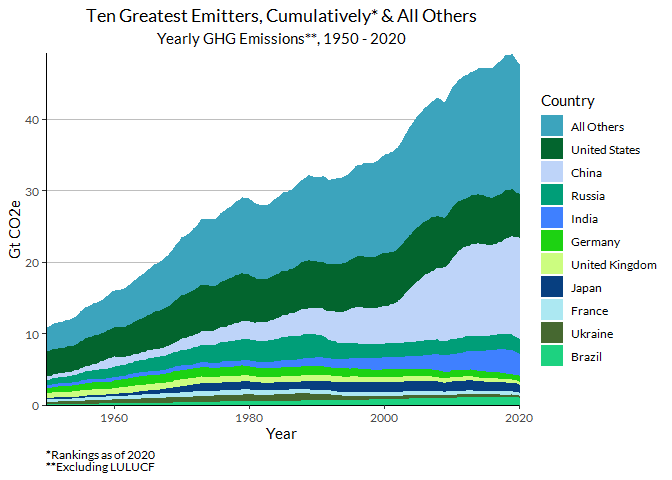
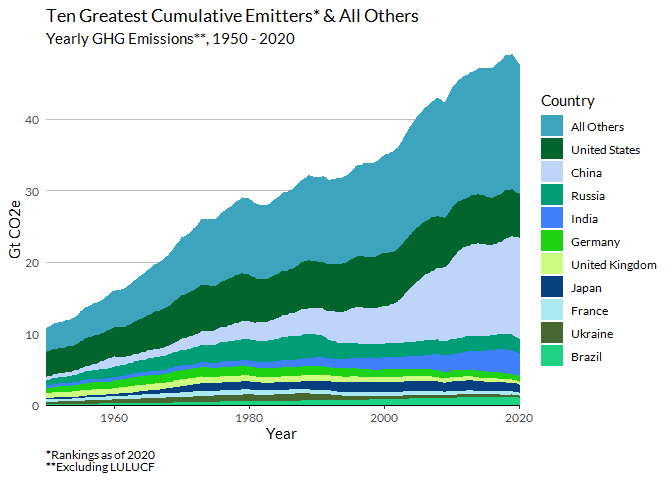
.

Changed region(s): [[0.0625, 0.0, 0.7188, 0.0938]]

diff --git a/Missed-Benchmarks.md b/Missed-Benchmarks.md
@@ -61,25 +61,31 @@ co2_1850_w_world <- dplyr::union(co2_1850, world)
 ```
 
 ``` r
-# explore effects of LULUCF on global total and whether to include
-# so the unfccc ndcs do not include LULUCF? which ones? all of them?
+# explore effects of LULUCF on global total
 
 global_totals_vs_lulucf <- world %>%
   pivot_longer(total_excl_LULUCF:total_incl_LULUCF:LULUCF, names_to = "category", values_to = "GtCO2e") 
 
+# graphing the global observations of total_incl_LULUCF, total_excl_LULUCF, and LULUCF over time
+
 global_totals_vs_lulucf <- global_totals_vs_lulucf %>%
-  ggplot(aes(year, GtCO2e, color = category), linewidth = 1) +
+  ggplot(aes(year, GtCO2e, color = category), linewidth = 1.2) +
   geom_line(aes(year, GtCO2e), linewidth = .9) + #aes(year, GtCO2e), linewidth = 1.5
   geom_hline(yintercept = 0, linewidth = .5) +
-  coord_cartesian(xlim = c(1970, 2021), expand = FALSE) +
+  coord_cartesian(xlim = c(1970, 2020.5), expand = FALSE) +
   scale_y_continuous(limits = c(-3, 50)) +
-  labs(x= "Year", color = element_blank()) +
+  labs(x= "Year", y = "Gt CO2e", color = element_blank(),
+       title = "Effect of LULUCF on Global Greenhouse Gas Emission Totals
+       ") +
   theme_classic() +
   theme(legend.position = c(0.15, 0.85), 
         legend.key.size = unit(0.2, "cm"), 
         legend.key.spacing.y = unit(.2, "cm"),
         legend.background = element_rect(fill = "white", color = 1), 
         legend.title = element_blank(), 
+        axis.ticks.y.left = element_blank(),
+        axis.line.y = element_blank(),
+        panel.grid.major.y = element_line(color = "grey"),
         text = element_text(family = "Lato"))
 
 
@@ -190,9 +196,9 @@ ls <- all_together_cumulative %>% filter(year == 2020)  %>% arrange(desc(cumsum_
 #DIY PALETTES
 mypalette <- c("#3CA4BD",  "#03652e", "#BED4F9FF", "#009E78", "#3F80FF", '#1dd212', "#ccfd80", "#073F80",  "#ACE8F2", "#466830",  "#1dd280", "#466870")
 
-mypalette2 <- c( "#3F80FF", "#073F80", "#A8D2F9FF", "#BED1F9FF","#009E78","#03652e", "#3CA4BD", "#ACE8F2", "#1dd280", "#466830",  "#466870", '#1dd212', "#ccfd10",  "#226670")
+mypalette2 <- c("#A8D2F9FF", "#BED1F9FF","#3F80FF", "#073F80", "#009E78","#03652e", "#3CA4BD", "#ACE8F2", "#1dd280", "#466830",  "#466870", '#1dd212', "#ccfd10",  "#226670")
 
-mypalette3 <- c( "#8fdc11", "#ccfd10", "#3F80FF", "#073F80", "#A8D2F9FF", "#BED1F9FF","#009E78", "#03652e", "#3CA4BD", "#ACE8F2", "#466830",  "#466870")
+mypalette3 <- c('#1dd212', "#8fdc11", "#A8D2F9FF", "#BED1F9FF","#3F80FF", "#073F80", "#009E78", "#03652e", "#3CA4BD", "#ACE8F2", "#466830",  "#466870")
 ```
 
 ``` r
@@ -210,14 +216,16 @@ plot_dfs_combined <- dfs_combined %>%
 #  scale_fill_paletteer_d("ggprism::floral2") + 
 #  scale_fill_paletteer_d("ggthemes::hc_fg") + 
   theme(text = element_text(family = "Lato"),
-        plot.title = element_text(hjust = 0.5),
-        plot.subtitle = element_text(hjust = 0.5),
+        axis.ticks.y.left = element_blank(),
+        axis.line.y = element_blank(),
+       # plot.title = element_text(hjust = 0.5),
+      #  plot.subtitle = element_text(hjust = 0.5),
         panel.grid.major.y = element_line(color = "grey"),
         plot.caption = element_text(hjust = 0)) +
   labs(x = "Year",
        y = "Gt CO2e",
        subtitle = "Yearly GHG Emissions**, 1950 - 2020",
-       title = "Ten Greatest Emitters, Cumulatively* & All Others",
+       title = "Ten Greatest Cumulative Emitters* & All Others",
        caption = "*Rankings as of 2020
 **Excluding LULUCF",
        fill = "Country")
@@ -251,7 +259,7 @@ df_agg_top_10 <- df_top_10_2015 %>%
   summarize(total_incl_LULUCF = sum(total_incl_LULUCF),
             total_excl_LULUCF = sum(total_excl_LULUCF),
             LULUCF = sum(LULUCF)) %>%
-  mutate(country = "Aggregated 10")
+  mutate(country = "Top Contributors")
 
 # appending "World"
 df_agg_top_10_n_world_2015 <- union(df_agg_top_10, world) 
@@ -261,12 +269,16 @@ df_agg_top_10_n_world_2015 <- union(df_agg_top_10, world)
 # plot before aggregating
 plot_world_over_time <- world %>%
   ggplot(aes(year, total_excl_LULUCF)) +
-  geom_line() +
-  theme_bw() +
+  geom_line(color = "#3F80FF", linewidth = 1.2) +
+  theme_classic() +
   coord_cartesian(xlim = c(1850, 2021), ylim = c(0,50), expand = FALSE) +
   theme(text = element_text(family = "Lato"),
-                plot.title = element_text(hjust = 0.5)) +
-  labs(x = "Year", y = "Gt CO2e", title = "Global Emissions Over Time")
+        axis.ticks.y.left = element_blank(),
+      #  plot.title = element_text(hjust = 0.5),
+        panel.grid.major.y = element_line(color = "grey"),
+        axis.line.y = element_blank(),
+        plot.caption = element_text(face = "italic")) +
+  labs(x = "Year", y = "Gt CO2e", title = "Global Greenhouse Gas Emissions\n")
 print(plot_world_over_time)
 ```
 
@@ -504,7 +516,7 @@ bau_agg10_df <- data.frame(year = c(2016, 2017, 2018, 2019, 2020,
                                     2021, 2022, 2023, 2024, 2025, 
                                     2026, 2027, 2028, 2029, 2030),
                            total_excl_LULUCF = bau_agg10_predict,
-                           country = "Aggregated 10",
+                           country = "Top Contributors",
                            total_incl_LULUCF = NA, 
                            LULUCF = NA)
   
@@ -515,7 +527,7 @@ agg10_2015_total <- df_agg_top_10 %>% filter(year == 2015)
 
 bau_df_2 <- rbind(bau_df, world_2015_total, agg10_2015_total)
 
-bau_df_2$country <- with(bau_df_2, factor(country, levels = c("World", "Aggregated 10"), labels = c("World_Pred", "Aggregated 10_Pred")))
+bau_df_2$country <- with(bau_df_2, factor(country, levels = c("World", "Top Contributors"), labels = c("World_Pred", "Top Contributors_Pred")))
 ```
 
 ``` r
@@ -561,7 +573,7 @@ pred_df <- data.frame(year = c(2020, 2021, 2022, 2023, 2024, 2025,
 pred_10_df <- data.frame(year = c(2020, 2021, 2022, 2023, 2024, 2025, 
                                   2026, 2027, 2028, 2029, 2030),
                          total_excl_LULUCF = pred_agg10,
-                         country = "Aggregated 10", # i need to be able to append this 
+                         country = "Top Contributors", # i need to be able to append this 
                          total_incl_LULUCF = NA, # to the bottom of df_agg_top_10_n_world_1015
                          LULUCF = NA)
 
@@ -572,7 +584,7 @@ df_agg10_world_2015_2030 <- union(df_agg_top_10_n_world_2015, pred_df)
 df_agg10_world_2020_2030 <- df_agg10_world_2015_2030 %>%
   filter(year %in% (2020:2030))
 
-df_agg10_world_2020_2030$country <- with(df_agg10_world_2020_2030, factor(country, levels = c("World", "Aggregated 10"), labels = c("World_Pred", "Aggregated 10_Pred")))
+df_agg10_world_2020_2030$country <- with(df_agg10_world_2020_2030, factor(country, levels = c("World", "Top Contributors"), labels = c("World_Pred", "Top Contributors_Pred")))
 ```
 
 ``` r
@@ -584,13 +596,13 @@ y_start_agg10 <- ndc_line %>%
 y_start_agg10 <- y_start_agg10$total_excl_LULUCF
 
 bau_yend_agg10 <- bau_df_2 %>%
-  filter(year == 2030 & country == "Aggregated 10_Pred") %>%
+  filter(year == 2030 & country == "Top Contributors_Pred") %>%
   select(total_excl_LULUCF)
 #as.integer(bau_yend_agg10)
 bau_yend_agg10 <- bau_yend_agg10$total_excl_LULUCF
 
 pred_yend_agg10 <- df_agg10_world_2020_2030 %>%
-  filter(year == 2030 & country == "Aggregated 10_Pred") %>%
+  filter(year == 2030 & country == "Top Contributors_Pred") %>%
   select(total_excl_LULUCF)
 #as.integer(pred_yend_agg10)
 pred_yend_agg10 <- pred_yend_agg10$total_excl_LULUCF
@@ -626,7 +638,7 @@ diff_bau_ndc_agg10 <- bau_agg10_df$total_excl_LULUCF[bau_agg10_df$year == 2030] 
 diff_bau_ndc_world_a <- bau_df %>% filter(year == 2030 & country == "World") %>% select(total_excl_LULUCF)
 diff_bau_ndc_world <- diff_bau_ndc_world_a$total_excl_LULUCF - path_2$total_excl_LULUCF[path_2$year == 2030]
 
-diff_pred_ndc_agg10_a <- df_agg10_world_2020_2030 %>% filter(year == 2030 & country == "Aggregated 10_Pred") %>% select(total_excl_LULUCF)
+diff_pred_ndc_agg10_a <- df_agg10_world_2020_2030 %>% filter(year == 2030 & country == "Top Contributors_Pred") %>% select(total_excl_LULUCF)
 diff_pred_ndc_agg10 <- diff_pred_ndc_agg10_a$total_excl_LULUCF - ndc_line$total_excl_LULUCF[ndc_line$year == 2030]
 
 diff_pred_ndc_world_a <- df_agg10_world_2020_2030 %>% filter(year == 2030 & country == "World_Pred") %>% select(total_excl_LULUCF)
@@ -641,24 +653,27 @@ diff_pred_ndc_world_1pt5 <- diff_pred_ndc_world_a$total_excl_LULUCF - path_1pt5$
 plot_agg10_nworld_over_time <- df_agg_top_10_n_world_2015 %>%
   ggplot(aes(year, total_excl_LULUCF, color = country,labels = NULL)) +
   geom_line(linewidth = 1.2) +
-  coord_cartesian(xlim = c(1900, 2020), ylim = c(0, 50), expand = FALSE) +
+  coord_cartesian(xlim = c(1920, 2020), ylim = c(0, 50), expand = FALSE) +
   theme_classic() +
   scale_color_manual(values = c("#3CA4BD","#009E78")) +
   #scale_color_paletteer_d("palettetown::celebi") +
   theme(axis.line.y = element_blank(),
+        axis.ticks.y.left = element_blank(),
         text = element_text(family = "Lato"),
-        plot.title = element_text(hjust = 0.5),
-        plot.subtitle = element_text(hjust = 0.5),
+       # plot.title = element_text(hjust = 0.5),
+       # plot.subtitle = element_text(hjust = 0.5),
         panel.grid.major.y = element_line(size = .15, color = "grey"),
         plot.caption = element_text(hjust = 0),
-        legend.position = "bottom") +
+        legend.position = "bottom",
+        legend.title.position = "top",
+        legend.title = element_blank()) +
   labs(x = "Year",
        y = "CO2e",
-       subtitle = "Aggregated Annual GHG Emissions**, 1980 - 2020",
-       title = "Ten Greatest Emitters* Versus Global Emissions",
+       subtitle = "Aggregated Annual GHG Emissions**, 1920 - 2020\n",
+       title = "Ten Greatest Emitters* vs Global Emissions",
        caption = "*In 2015
-**Excluding LULUCF",
-       fill = "Country")
+**Excluding LULUCF
+Top Contributors: China, United States, India, Russia, Japan, Brazil, Iran, Germany, Indonesia, and Saudi Arabia")
 
 plot_agg10_nworld_over_time
 ```
@@ -698,17 +713,18 @@ Nov 2016",
   scale_color_manual(values = mypalette2) +
   #scale_color_paletteer_d("palettetown::celebi") +
   theme(axis.line.y = element_blank(),
+        axis.ticks.y.left = element_blank(),
         text = element_text(family = "Lato"),
-        plot.title = element_text(hjust = 0.5),
-        plot.subtitle = element_text(hjust = 0.5),
+      #  plot.title = element_text(hjust = 0.5),
+      #  plot.subtitle = element_text(hjust = 0.5),
         panel.grid.major.y = element_line(size = .15, color = "grey"),
         plot.caption = element_text(hjust = 0),
         legend.position = "bottom",
         legend.title = element_blank()) +
   labs(x = "Year",
        y = "Gt CO2e",
-       subtitle = "Aggregated Annual GHG Emissions** & Paris Agreement Pledges",
-       title = "Ten Greatest Emitters* vs Global Emissions",
+       title = "Aggregated Annual GHG Emissions** & Paris Agreement Pledges",
+       subtitle = "Ten Greatest Emitters* vs Global Emissions\n",
        caption = "*In 2015
 **Excluding LULUCF",
        fill = "Country")
@@ -723,13 +739,8 @@ plot_agg_10_n_world_2015_TWO <- df_agg_top_10_n_world_2015 %>%
   ggplot(aes(year, total_excl_LULUCF, color = country)) +
   geom_line(linewidth = 1.4) +
   geom_vline(xintercept = 2015.5, color = "grey", size = 8, alpha = .15) +
-  geom_text(aes(x = 2014.6, y = 36, 
-                label = "Paris Climate Agreement
-                Signed Dec 2015"), size = 2.8, color = "#90A0A0FF", hjust = "right") +
-  geom_text(aes(x = 2016.4, y = 14, 
-                label = "NDC Enforcement
-Nov 2016", 
-                family = "Lato"), size = 2.8, color = "#90A0A0FF", hjust = "left") +
+  geom_text(aes(x = 2014.6, y = 36, label = "Paris Climate Agreement\nSigned Dec 2015"), size = 2.8, color = "#90A0A0FF", hjust = "right") +
+  geom_text(aes(x = 2016.4, y = 14, label = "NDC Enforcement\nNov 2016", family = "Lato"), size = 2.8, color = "#90A0A0FF", hjust = "left") +
   geom_line(data = df_agg10_world_2020_2030, aes(year, total_excl_LULUCF, color = country), linewidth = 1.4) + #2021-2030
   geom_line(data = bau_df_2, aes(year, total_excl_LULUCF, color = country), linewidth = 1, alpha = .5) + #bau 
   geom_line(data = ndc_line, aes(year, total_excl_LULUCF), linewidth = .9) + #ndc line
@@ -737,17 +748,17 @@ Nov 2016",
   geom_line(data = path_1pt5, aes(year, total_excl_LULUCF, color = "1.5°"), linewidth = 1.1) +
   geom_line(data = path_2, aes(year, total_excl_LULUCF, color = "2°"), linewidth = 1.1) +
   geom_segment(x = 2030.7, y = y_start_world, xend = 2030.7, yend = pred_yend_world, 
-               arrow = arrow(length = unit(2.3, "mm")), linewidth = 2.3, color = "#ccfd10") +
+               arrow = arrow(length = unit(2.3, "mm")), linewidth = 2.3, color = "#8fdc11") +
   geom_segment(x = 2033, y = y_start_world, xend = 2033, yend = bau_yend_world, 
-               arrow = arrow(length = unit(2.3, "mm")), linewidth = 2.3, color = "#ccfd10") +
+               arrow = arrow(length = unit(2.3, "mm")), linewidth = 2.3, color = "#8fdc11") +
   geom_text(aes(x = 2030.4, y = 43, label = "18.36", family = "Roboto Condensed"), 
             hjust = "right", size = 2.8, color = "#607070F1") +
   geom_text(aes(x = 2032.7, y = 45, label = "24.88", family = "Roboto Condensed"), 
             hjust = "right", size = 2.8, color = "#607070F1") +
   geom_segment(x = 2035.5, y = y_start_world_1pt5, xend = 2035.5, yend = pred_yend_world, 
-               arrow = arrow(length = unit(2.3, "mm")), linewidth = 2.3, color = "#8fdc11") +
+               arrow = arrow(length = unit(2.3, "mm")), linewidth = 2.3, color = "#1dd212") +
   geom_segment(x = 2037.8, y = y_start_world_1pt5, xend = 2037.8, yend = bau_yend_world, 
-               arrow = arrow(length = unit(2.3, "mm")), linewidth = 2.3, color = "#8fdc11") + 
+               arrow = arrow(length = unit(2.3, "mm")), linewidth = 2.3, color = "#1dd212") + 
   geom_text(aes(x = 2035.2, y = 43, label = "19.90", family = "Roboto Condensed"), 
             hjust = "right", size = 2.8, color = "#607070F1") +
   geom_text(aes(x = 2037.5, y = 45, label = "26.43", family = "Roboto Condensed"), 
@@ -757,16 +768,17 @@ Nov 2016",
   scale_color_manual(values = mypalette3) +
   #scale_color_paletteer_d("palettetown::celebi") +
   theme(axis.line.y = element_blank(),
+        axis.ticks.y.left = element_blank(),
         text = element_text(family = "Lato"),
-        plot.title = element_text(hjust = 0.5),
-        plot.subtitle = element_text(hjust = 0.5),
+       # plot.title = element_text(hjust = 0.5),
+       # plot.subtitle = element_text(hjust = 0.5),
         panel.grid.major.y = element_line(size = .15, color = "grey"),
         plot.caption = element_text(hjust = 0),
         legend.position = "bottom",
         legend.title = element_blank()) +
   labs(x = "Year",
        y = "Gt CO2e",
-       subtitle = "Aggregated Annual GHG Emissions** & Global Temperature Pathways",
+       subtitle = "Aggregated Annual GHG Emissions** & Global Temperature Pathways\n",
        title = "Ten Greatest Emitters* vs Global Emissions",
        caption = "*In 2015
 **Excluding LULUCF",
@@ -776,3 +788,4 @@ plot_agg_10_n_world_2015_TWO
 ```
 
 <img src="Missed-Benchmarks_files/figure-gfm/unnamed-chunk-29-1.png" style="display: block; margin: auto;" />
+\`\`\`
